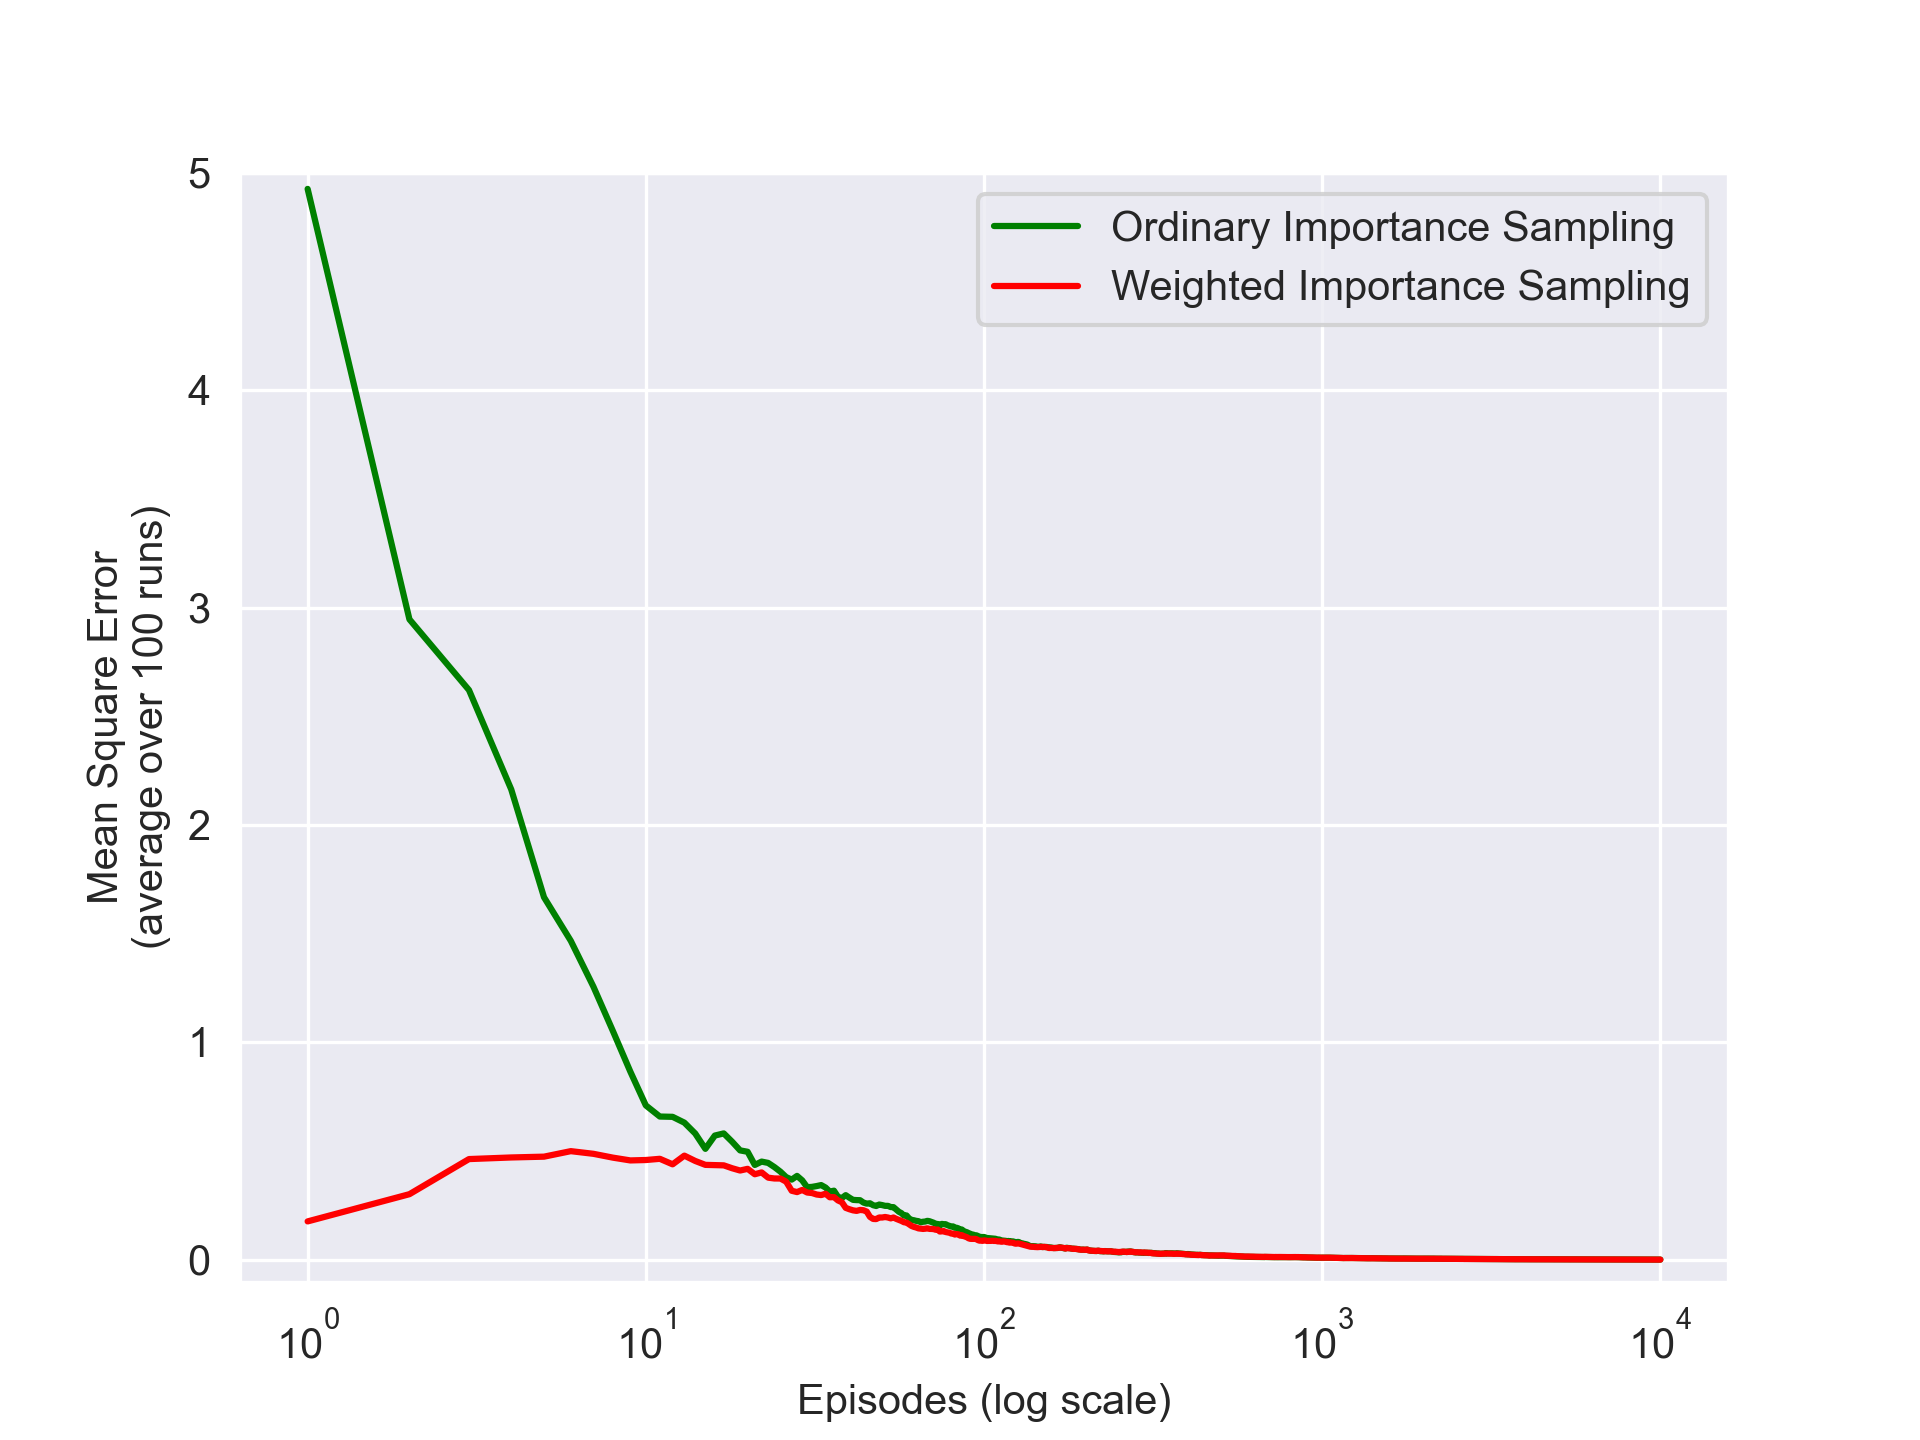
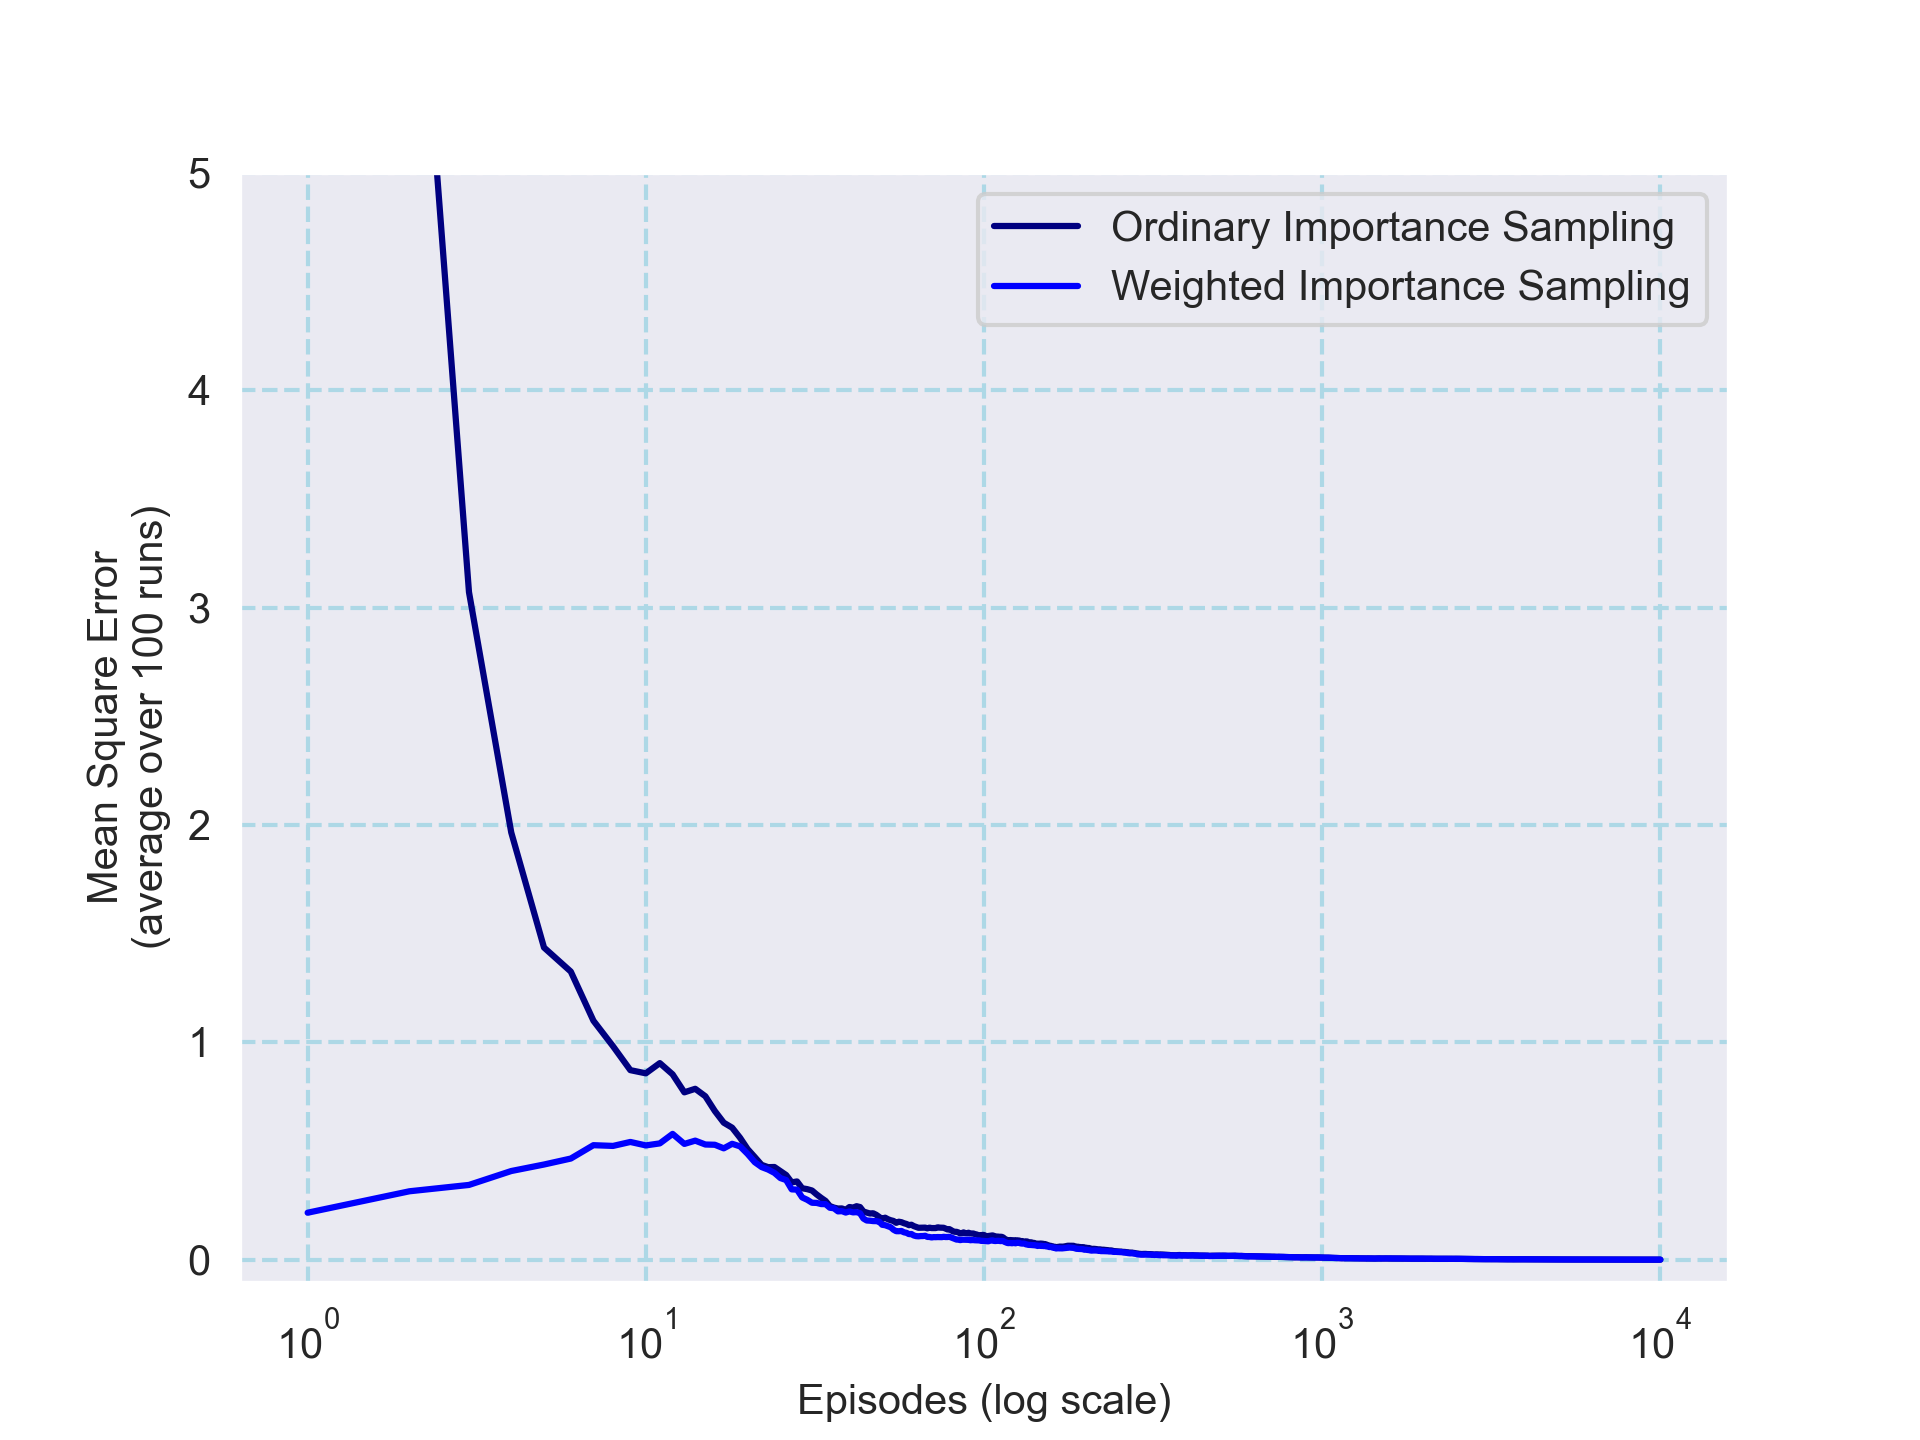
Update blackjack | Delete figure methods, update 3th plot

diff --git a/blackjack/src/blackjack.py b/blackjack/src/blackjack.py
@@ -396,134 +396,3 @@ class BlackjackMonteCarlo:
             weighted_estimate = np.where(cumulative_rhos != 0, cumulative_weighted_rewards / cumulative_rhos, 0)
 
         return ordinary_estimate, weighted_estimate
-
-    def figure_5_1(self):
-        """
-        Generate Figure 5.1: Heatmap of state values estimated using on-policy Monte Carlo sampling,
-        comparing results from 10,000 and 500,000 episodes for states with and without a usable ace.
-        Saves the figure to a file.
-        """
-        # Generate state-value estimates from Monte Carlo on-policy simulation with different number of episodes.
-        values_usable_ace_10k, values_no_usable_ace_10k = self.monte_carlo_on_policy(10000)
-        values_usable_ace_500k, values_no_usable_ace_500k = self.monte_carlo_on_policy(500000)
-
-        # Group the estimated values for visualization.
-        state_values = [values_usable_ace_10k,
-                        values_usable_ace_500k,
-                        values_no_usable_ace_10k,
-                        values_no_usable_ace_500k]
-        # Define titles for each subplot.
-        titles = ['Usable Ace, 10,000 Episodes',
-                  'Usable Ace, 500,000 Episodes',
-                  'No Usable Ace, 10,000 Episodes',
-                  'No Usable Ace, 500,000 Episodes']
-
-        # Create a 2x2 grid of subplots for the heatmaps.
-        fig, axes = plt.subplots(2, 2, figsize=(40, 30))
-        plt.subplots_adjust(wspace=0.1, hspace=0.2)
-        axes = axes.flatten()
-
-        # Generate a heatmap for each set of state values.
-        for state_value, title, ax in zip(state_values, titles, axes):
-            heatmap = sns.heatmap(np.flipud(state_value), cmap="YlGnBu", ax=ax,
-                                  xticklabels=range(1, 11),
-                                  yticklabels=list(reversed(range(12, 22))), annot=True)
-            heatmap.set_ylabel('Player Sum', fontsize=30)
-            heatmap.set_xlabel('Dealer Showing', fontsize=30)
-            heatmap.set_title(title, fontsize=30)
-
-        # Save the figure to the specified directory.
-        plt.savefig('../images/figure_5_1.png')
-        plt.close()
-
-    def figure_5_2(self):
-        """
-        Generate Figure 5.2: Heatmaps for the optimal policy and state-value function estimated
-        using Monte Carlo with Exploring Starts (MCES). Displays results for both states with and without a usable ace.
-        Saves the figure to a file.
-        """
-        # Estimate the state-action values using MCES.
-        state_action_values = self.monte_carlo_exploring_starts(500000)
-
-        # Determine state values (maximum over actions) for states with and without a usable ace.
-        state_value_no_usable_ace = np.max(state_action_values[:, :, 0, :], axis=-1)
-        state_value_usable_ace = np.max(state_action_values[:, :, 1, :], axis=-1)
-        # Extract the optimal policy by taking the argmax over actions for both cases.
-        policy_no_usable_ace = np.argmax(state_action_values[:, :, 0, :], axis=-1)
-        policy_usable_ace = np.argmax(state_action_values[:, :, 1, :], axis=-1)
-
-        # Arrange data for visualization.
-        images = [policy_usable_ace,
-                  state_value_usable_ace,
-                  policy_no_usable_ace,
-                  state_value_no_usable_ace]
-        titles = ['Optimal Policy with Usable Ace',
-                  'Optimal Value with Usable Ace',
-                  'Optimal Policy without Usable Ace',
-                  'Optimal Value without Usable Ace']
-
-        # Create a 2x2 grid of subplots.
-        fig, axes = plt.subplots(2, 2, figsize=(40, 30))
-        plt.subplots_adjust(wspace=0.1, hspace=0.2)
-        axes = axes.flatten()
-
-        # Generate a heatmap for each figure.
-        for image, title, ax in zip(images, titles, axes):
-            heatmap = sns.heatmap(np.flipud(image), cmap="YlGnBu", ax=ax, annot=True,
-                                  xticklabels=range(1, 11),
-                                  yticklabels=list(reversed(range(12, 22))))
-            heatmap.set_ylabel('Player Sum', fontsize=30)
-            heatmap.set_xlabel('Dealer Showing', fontsize=30)
-            heatmap.set_title(title, fontsize=30)
-
-        # Save the generated figure.
-        plt.savefig('../images/figure_5_2.png')
-        plt.close()
-
-    def figure_5_3(self):
-        """
-        Generate Figure 5.3: Plot of mean squared error for ordinary and weighted importance sampling
-        estimates against a known true value. Plots errors over a logarithmic scale for the episodes.
-        Saves the figure to a file.
-        """
-        # Known true value for the state evaluation.
-        true_value = -0.27726
-        episodes = 10000  # Total episodes per run.
-        runs = 100  # Number of runs to average the error estimates.
-        error_ordinary = np.zeros(episodes)  # Array to accumulate errors from ordinary sampling.
-        error_weighted = np.zeros(episodes)  # Array to accumulate errors from weighted sampling.
-
-        # Loop over multiple runs to average the error.
-        for _ in tqdm(range(runs)):
-            ordinary_sampling, weighted_sampling = self.monte_carlo_off_policy(episodes)
-            # Compute squared error for each episode.
-            error_ordinary += np.power(ordinary_sampling - true_value, 2)
-            error_weighted += np.power(weighted_sampling - true_value, 2)
-        # Average the squared error across runs.
-        error_ordinary /= runs
-        error_weighted /= runs
-
-        # Plot the mean-squared error for both importance sampling methods.
-        plt.plot(np.arange(1, episodes + 1), error_ordinary, color='green', label='Ordinary Importance Sampling')
-        plt.plot(np.arange(1, episodes + 1), error_weighted, color='red', label='Weighted Importance Sampling')
-        plt.ylim(-0.1, 5)  # Set the limits for the y-axis.
-        plt.xlabel('Episodes (log scale)')
-        plt.ylabel(f'Mean Squared Error (average over {runs} runs)')
-        plt.xscale('log')  # Set x-axis to a logarithmic scale.
-        plt.legend()
-
-        # Save the figure to the specified location.
-        plt.savefig('../images/figure_5_3.png')
-        plt.close()
-
-
-# If this module is run as the main program, generate the figures.
-if __name__ == '__main__':
-    # Create an instance of the simulation class.
-    simulation = BlackjackMonteCarlo()
-    # Generate the first figure.
-    simulation.figure_5_1()
-    # Generate the second figure.
-    simulation.figure_5_2()
-    # Generate the third figure.
-    simulation.figure_5_3()
